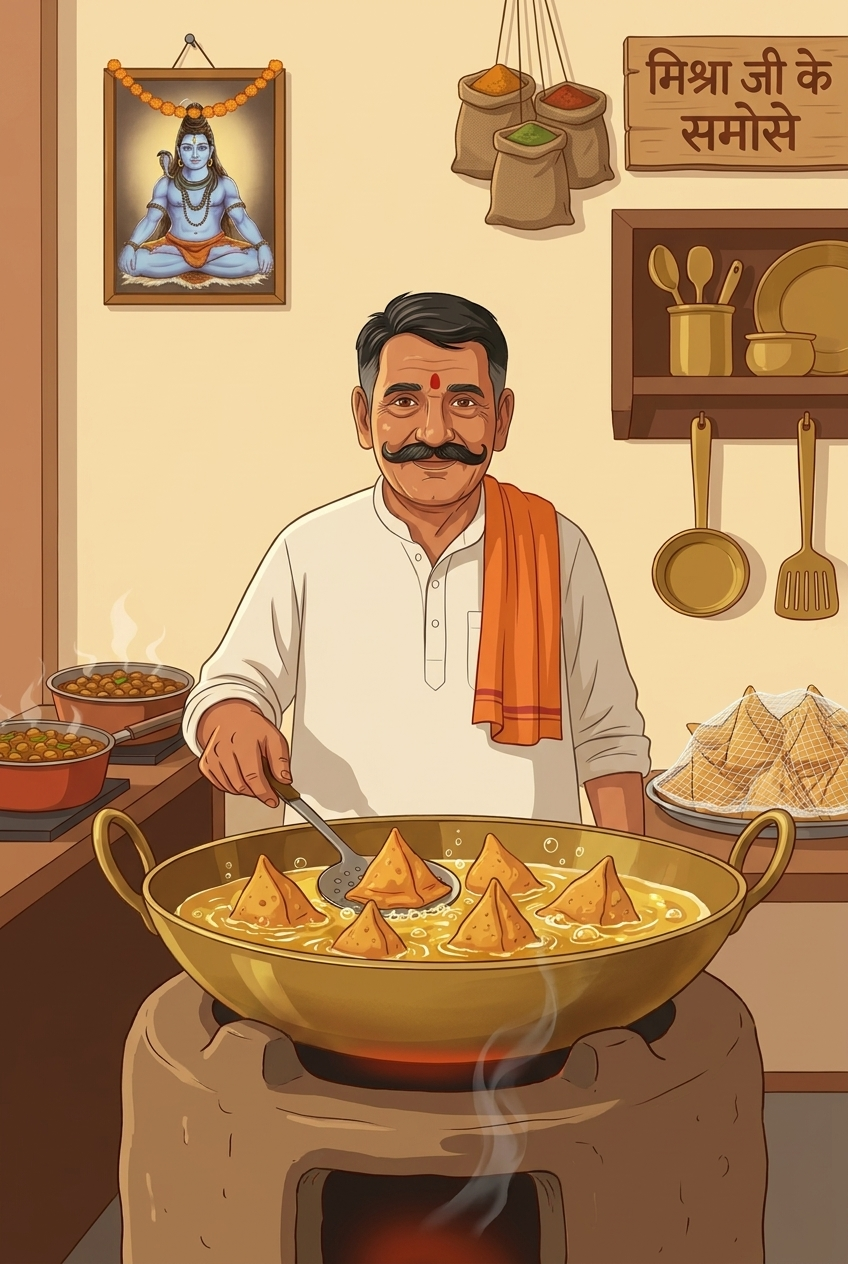
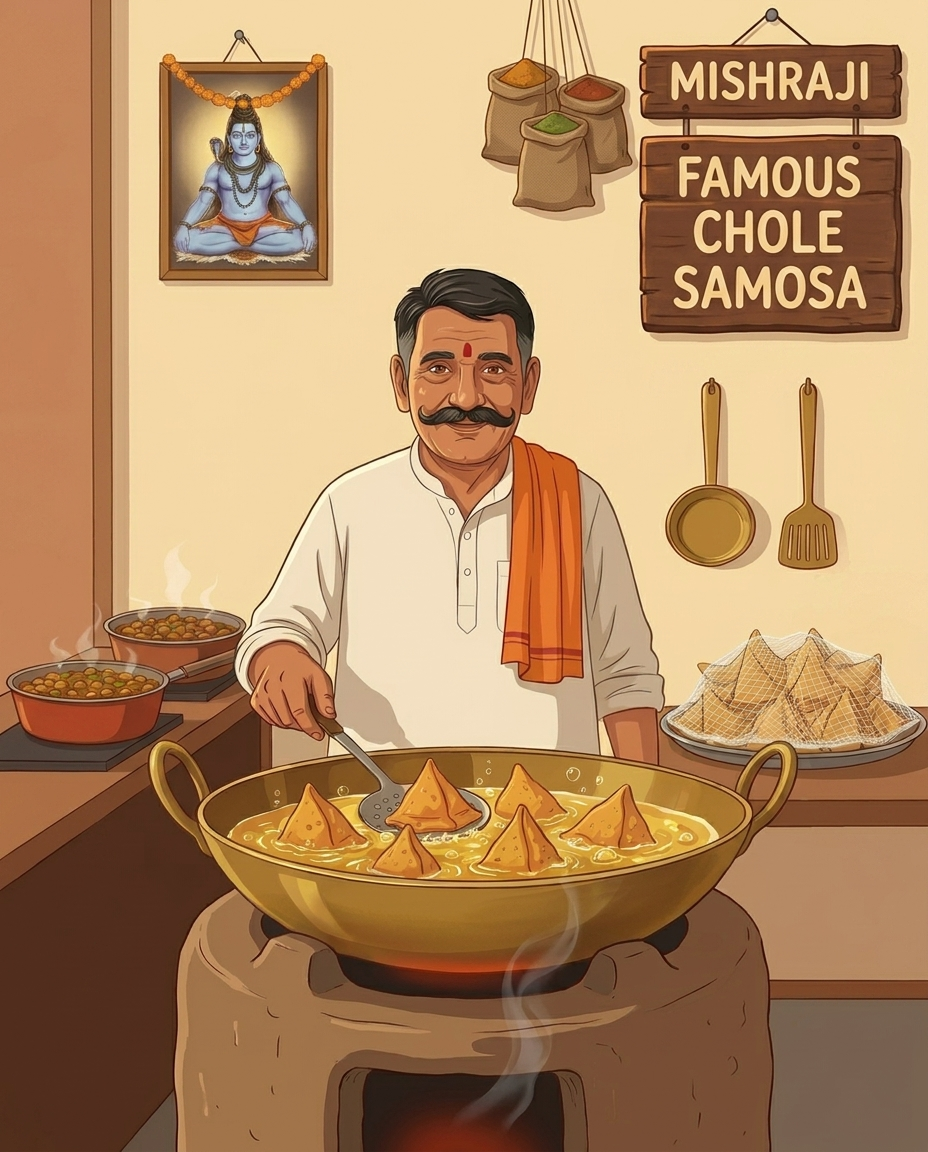
Hero board -> FAMOUS CHOLE SAMOSA, Mishraji signage, smoother hero fade
- Hero board updated from "FAMOUS SAMOSA" to "FAMOUS CHOLE SAMOSA" (3 lines)
- Mishraji portrait: Hindi board replaced with MISHRAJI nameplate + FAMOUS CHOLE SAMOSA signboard below
- Hero background mask smoothed: 8-stop gradient starts at 62% (was 84%) so bottom
  fades gently into cream body instead of cutting abruptly
- Mobile hero gets its own softer fade (starts at 55%) since vertical space is tighter

diff --git a/style.css b/style.css
@@ -171,19 +171,23 @@ a { color: inherit; text-decoration: none; }
   -webkit-mask-image: linear-gradient(
     to bottom,
     black 0%,
-    black 84%,
-    rgba(0, 0, 0, 0.85) 90%,
-    rgba(0, 0, 0, 0.5) 95%,
-    rgba(0, 0, 0, 0.18) 98%,
+    black 62%,
+    rgba(0, 0, 0, 0.94) 72%,
+    rgba(0, 0, 0, 0.80) 80%,
+    rgba(0, 0, 0, 0.58) 87%,
+    rgba(0, 0, 0, 0.32) 93%,
+    rgba(0, 0, 0, 0.12) 97%,
     transparent 100%
   );
   mask-image: linear-gradient(
     to bottom,
     black 0%,
-    black 84%,
-    rgba(0, 0, 0, 0.85) 90%,
-    rgba(0, 0, 0, 0.5) 95%,
-    rgba(0, 0, 0, 0.18) 98%,
+    black 62%,
+    rgba(0, 0, 0, 0.94) 72%,
+    rgba(0, 0, 0, 0.80) 80%,
+    rgba(0, 0, 0, 0.58) 87%,
+    rgba(0, 0, 0, 0.32) 93%,
+    rgba(0, 0, 0, 0.12) 97%,
     transparent 100%
   );
 }
@@ -293,6 +297,28 @@ a { color: inherit; text-decoration: none; }
     background-size: cover;
     transform: scale(1.02);
     animation: slowZoom 12s ease-in-out infinite alternate;
+    -webkit-mask-image: linear-gradient(
+      to bottom,
+      black 0%,
+      black 55%,
+      rgba(0, 0, 0, 0.92) 66%,
+      rgba(0, 0, 0, 0.75) 75%,
+      rgba(0, 0, 0, 0.52) 84%,
+      rgba(0, 0, 0, 0.28) 91%,
+      rgba(0, 0, 0, 0.10) 97%,
+      transparent 100%
+    );
+    mask-image: linear-gradient(
+      to bottom,
+      black 0%,
+      black 55%,
+      rgba(0, 0, 0, 0.92) 66%,
+      rgba(0, 0, 0, 0.75) 75%,
+      rgba(0, 0, 0, 0.52) 84%,
+      rgba(0, 0, 0, 0.28) 91%,
+      rgba(0, 0, 0, 0.10) 97%,
+      transparent 100%
+    );
   }
   .hero__overlay {
     top: 0;
@@ -754,22 +780,25 @@ a { color: inherit; text-decoration: none; }
   border-radius: 6px;
   box-shadow: 0 20px 60px rgba(61, 28, 0, 0.25);
   transform: rotate(-1deg);
+  width: auto;
+  max-height: 640px;
+  max-width: 100%;
+  margin: 0 auto;
+  display: block;
   -webkit-mask-image: linear-gradient(
     to bottom,
     black 0%,
-    black 86%,
-    rgba(0, 0, 0, 0.82) 92%,
-    rgba(0, 0, 0, 0.45) 96%,
-    rgba(0, 0, 0, 0.15) 99%,
+    black 91%,
+    rgba(0, 0, 0, 0.75) 95%,
+    rgba(0, 0, 0, 0.35) 98%,
     transparent 100%
   );
   mask-image: linear-gradient(
     to bottom,
     black 0%,
-    black 86%,
-    rgba(0, 0, 0, 0.82) 92%,
-    rgba(0, 0, 0, 0.45) 96%,
-    rgba(0, 0, 0, 0.15) 99%,
+    black 91%,
+    rgba(0, 0, 0, 0.75) 95%,
+    rgba(0, 0, 0, 0.35) 98%,
     transparent 100%
   );
 }